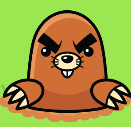
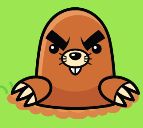
Add new mole imgs

diff --git a/src/App/Components/ProjectComponents/MoleGame/Settings.jsx b/src/App/Components/ProjectComponents/MoleGame/Settings.jsx
@@ -37,18 +37,24 @@ const MoleGameSettings = ({
         <div className="mole-game__settings-wrapper">
           <div>
             <div>
-              {(scoreCount !== null && winTime !== null) ? (
+              {scoreCount !== null && winTime !== null ? (
                 <h2>
                   <p className="mole-game__result">
                     {scoreCount > 0 ? (
                       <>
-                        <p>Congratulations! You have caught {scoreCount} moles in {winTime >= 60
-                          ? `${Math.floor(winTime / 60)} ${winTime >= 120 ? 'minutes' : 'minute'
-                          } ${winTime % 60 !== 0 ? `${winTime % 60} seconds` : ''}`
-                          : winTime > 1
-                            ? `${winTime} seconds`
-                            : `${winTime} second`
-                        }!</p>
+                        <p>
+                          Congratulations! You have caught {scoreCount} moles in{' '}
+                          {winTime >= 60
+                            ? `${Math.floor(winTime / 60)} ${winTime >= 120 ? 'minutes' : 'minute'
+                            } ${winTime % 60 !== 0
+                              ? `${winTime % 60} seconds`
+                              : ''
+                            }`
+                            : winTime > 1
+                              ? `${winTime} seconds`
+                              : `${winTime} second`}
+                          !
+                        </p>
                       </>
                     ) : (
                       'Try again!'
@@ -57,7 +63,6 @@ const MoleGameSettings = ({
                 </h2>
               ) : null}
             </div>
-
             <div className="mole-game__options">
               <div className="mole-game__options-ui">
                 <div>

diff --git a/src/App/Components/ProjectComponents/MoleGame/styles.css b/src/App/Components/ProjectComponents/MoleGame/styles.css
@@ -1,3 +1,6 @@
+.mole-game__board-wrapper {
+  user-select: none;
+}
 .mole-game__result {
   text-align: center;
   font-weight: bold;
@@ -43,7 +46,7 @@
   max-width: 900px;
   margin: auto;
   margin-top: 30px;
-  height: 400px;
+  max-height: 400px;
   background-image: url('../../../Images/mole-game/grass.png');
   gap: 1em;
   background-size: cover;
@@ -57,13 +60,12 @@
   display: flex;
   justify-content: center;
   align-items: center;
-  background-image: url('./molehole.png');
+  background-image: url('../../../Images/mole-game/molehole.png');
   background-repeat: no-repeat;
   background-position: center center;
 }
 
 .mole-game__board-ui img {
-  width: 105%;
   margin-top: -1em;
 }
 
@@ -92,6 +94,7 @@
   border-color: #23213d;
   background: #23213d;
   color: white;
+  cursor: pointer;
 }
 
 .mole-game__settings-wrapper h4,
@@ -113,6 +116,7 @@
   justify-content: center;
   align-items: center;
   margin-top: 5em;
+  user-select: none;
 }
 
 .mole-game__board-info {
@@ -125,3 +129,18 @@
 .mole-game__options-ui {
   grid-area: 1 / 1 / 5 / 5;
 } */
+
+@media (max-width: 1050px) {
+  .mole-game__options-ui button {
+    font-size: 16px;
+    padding: 1rem;
+  }
+
+  .mole-game__board-ui {
+    grid-template-columns: repeat(5, 1fr);
+    grid-template-rows: repeat(2, 1fr);
+  }
+
+  img {
+  }
+}
